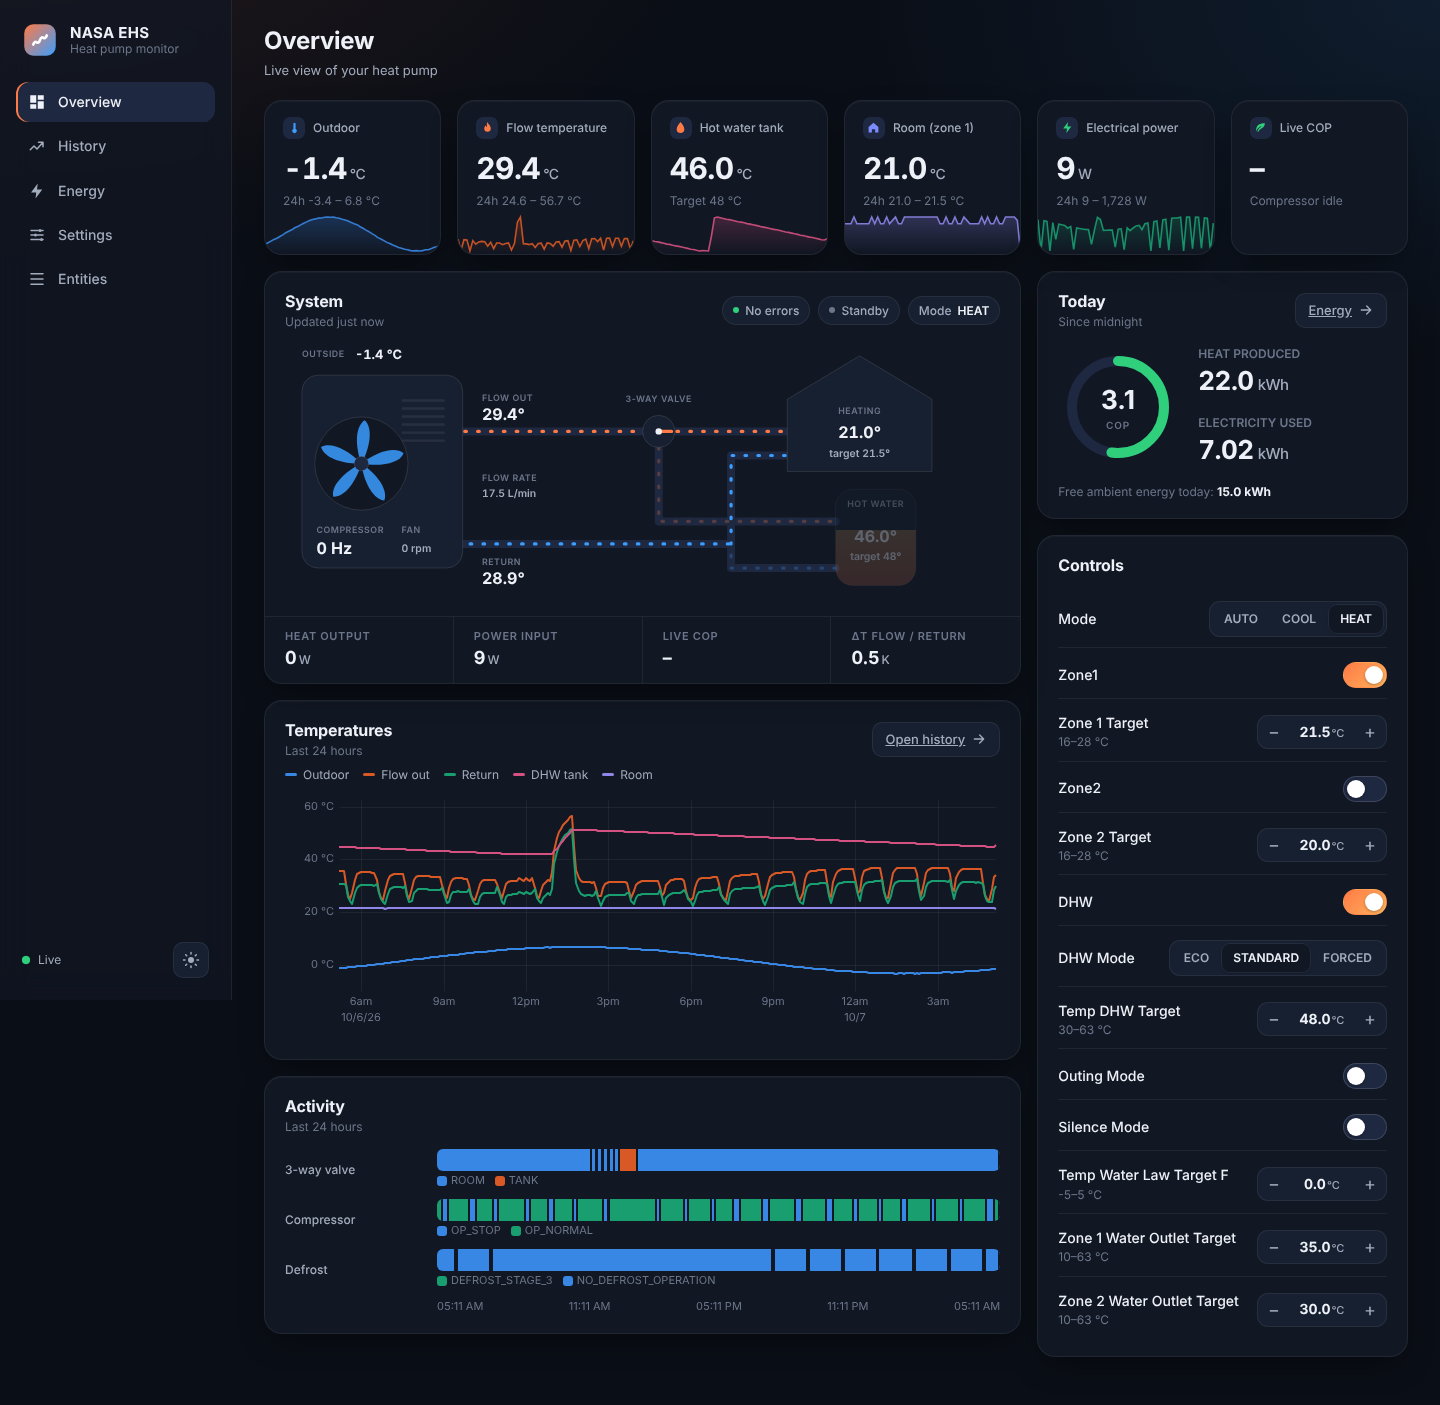
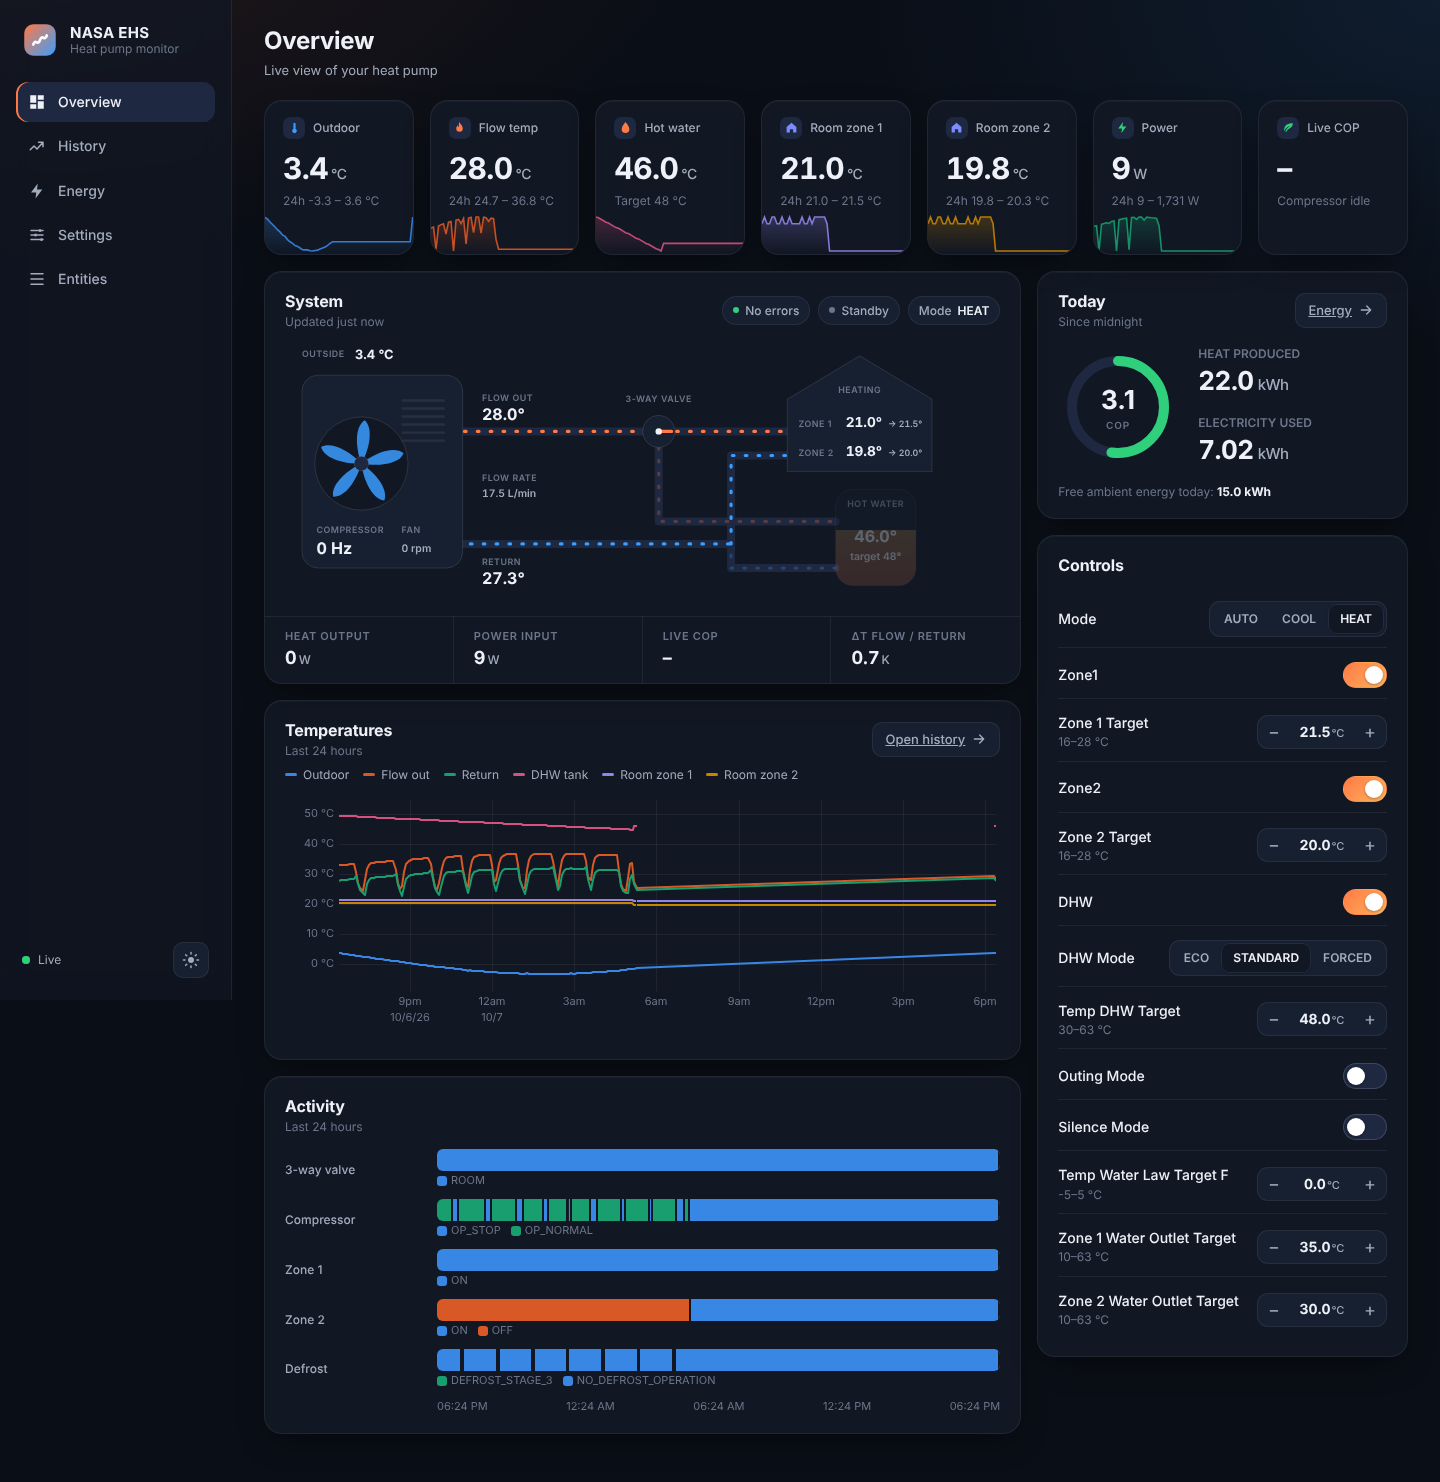
Show zone 2 in the web dashboard
- System schematic: the house now lists zone 1 and zone 2 with room
  temperature and target; a zone that is switched off is dimmed.
- New "Room zone 2" KPI tile, plus zone 2 room temperature in the
  overview and history temperature charts.
- Zone 1 / Zone 2 on/off rows in the activity and operating-state
  timelines.

Claude-Session: https://claude.ai/code/session_01F3TLVsUUiB4MiMTLmAKquL

diff --git a/web/nasa_web/static/js/views/overview.js b/web/nasa_web/static/js/views/overview.js
@@ -16,10 +16,11 @@ const ICONS = {
 
 const KPIS = [
   { key: N.outdoor, label: "Outdoor", icon: "temp", cls: "cool", color: "--s1" },
-  { key: N.waterOut, label: "Flow temperature", icon: "flame", cls: "heat", color: "--s2" },
-  { key: N.tank, label: "Hot water tank", icon: "drop", cls: "heat", color: "--s5" },
-  { key: N.room1, label: "Room (zone 1)", icon: "home", cls: "accent", color: "--s7" },
-  { key: N.power, label: "Electrical power", icon: "bolt", cls: "good", color: "--s3" },
+  { key: N.waterOut, label: "Flow temp", icon: "flame", cls: "heat", color: "--s2" },
+  { key: N.tank, label: "Hot water", icon: "drop", cls: "heat", color: "--s5" },
+  { key: N.room1, label: "Room zone 1", icon: "home", cls: "accent", color: "--s7" },
+  { key: N.room2, label: "Room zone 2", icon: "home", cls: "accent", color: "--s4" },
+  { key: N.power, label: "Power", icon: "bolt", cls: "good", color: "--s3" },
 ];
 
 let root, chart, sparkData = {}, timers = [], raf = 0;
@@ -79,7 +80,8 @@ export default {
         { label: "Flow out", color: "--s2", unit: "°C" },
         { label: "Return", color: "--s3", unit: "°C" },
         { label: "DHW tank", color: "--s5", unit: "°C" },
-        { label: "Room", color: "--s7", unit: "°C" },
+        { label: "Room zone 1", color: "--s7", unit: "°C" },
+        { label: "Room zone 2", color: "--s4", unit: "°C" },
       ],
       unit: "°C",
       height: 250,
@@ -190,11 +192,15 @@ function flowSvg() {
     </g>
 
     <!-- house -->
-    <g class="target" id="f-house" data-entity="${id(N.room1)}" style="cursor:pointer">
+    <g class="target" id="f-house">
       <path d="M630,70 L720,16 L810,70 V160 H630Z" fill="var(--surface-2)" stroke="var(--border-strong)" stroke-linejoin="round"/>
-      <text class="lbl" x="720" y="88" text-anchor="middle">Heating</text>
-      <text class="val" x="720" y="118" text-anchor="middle" id="f-room">–</text>
-      <text class="val-sm" x="720" y="142" text-anchor="middle" id="f-room-t"></text>
+      <text class="lbl" x="720" y="62" text-anchor="middle">Heating</text>
+      ${[1, 2].map((z) => `
+      <g id="f-z${z}" data-entity="${id(z === 1 ? N.room1 : N.room2)}" style="cursor:pointer">
+        <text class="lbl" x="644" y="${z === 1 ? 104 : 140}">Zone ${z}</text>
+        <text class="val" x="748" y="${z === 1 ? 105 : 141}" text-anchor="end" style="font-size:17px" id="f-z${z}-v">–</text>
+        <text class="val-sm" x="798" y="${z === 1 ? 105 : 141}" text-anchor="end" style="font-size:11px" id="f-z${z}-t"></text>
+      </g>`).join("")}
     </g>
 
     <!-- tank -->
@@ -242,9 +248,13 @@ function renderFlow() {
   setText("#f-out", deg(val(N.waterOut)));
   setText("#f-in", deg(val(N.waterIn)));
   setText("#f-flow", `${num(flow, 1)} L/min`);
-  setText("#f-room", deg(val(N.room1)));
-  const z1t = val(N.zone1Target);
-  setText("#f-room-t", z1t == null ? "" : `target ${num(z1t, 1)}°`);
+  for (const [z, room, sw, target] of [[1, N.room1, N.zone1, N.zone1Target], [2, N.room2, N.zone2, N.zone2Target]]) {
+    const on = text(sw) !== "OFF";
+    const t = val(target);
+    setText(`#f-z${z}-v`, deg(val(room)));
+    setText(`#f-z${z}-t`, !on ? "off" : t == null ? "" : `→ ${num(t, 1)}°`);
+    svg.querySelector(`#f-z${z}`).style.opacity = !ent(room) ? "0" : on ? "1" : "0.45";
+  }
   const tank = val(N.tank), tankT = val(N.dhwTarget);
   setText("#f-tank-v", deg(tank));
   setText("#f-tank-t", tankT == null ? "" : `target ${num(tankT, 0)}°`);
@@ -359,8 +369,8 @@ function renderControls() {
 /* ----------------------------------------------------------------- history */
 
 async function loadHistory() {
-  const keys = [N.outdoor, N.waterOut, N.waterIn, N.tank, N.room1];
-  const states = [[N.valve, "3-way valve"], [N.opMode, "Compressor"], [N.defrost, "Defrost"]];
+  const keys = [N.outdoor, N.waterOut, N.waterIn, N.tank, N.room1, N.room2];
+  const states = [[N.valve, "3-way valve"], [N.opMode, "Compressor"], [N.zone1, "Zone 1"], [N.zone2, "Zone 2"], [N.defrost, "Defrost"]];
   const ids = [...new Set([...keys, N.power, ...states.map((x) => x[0])].map((k) => ent(k)?.id).filter(Boolean))];
   if (!ids.length) return;
   const end = Date.now() / 1000, start = end - 86400;
@@ -371,7 +381,7 @@ async function loadHistory() {
       const s = res.series[ent(k)?.id];
       return s ? [s.t, s.v] : [[], []];
     }));
-    const rows = states.filter(([n]) => res.series[ent(n)?.id]).map(([n, label]) => ({ label, data: res.series[ent(n).id], order: ent(n).options }));
+    const rows = states.filter(([n]) => res.series[ent(n)?.id]).map(([n, label]) => ({ label, data: res.series[ent(n).id], order: ent(n).kind === "binary" ? ["ON", "OFF"] : ent(n).options }));
     timeline(root.querySelector("#ov-activity"), rows, start, end);
     sparkData = {};
     for (const k of KPIS) {

diff --git a/web/nasa_web/static/js/views/history.js b/web/nasa_web/static/js/views/history.js
@@ -7,13 +7,13 @@ const RANGES = [["1h", 3600], ["6h", 6 * 3600], ["24h", 86400], ["7d", 7 * 86400
 
 const PANELS = [
   { id: "temps", title: "Temperatures", unit: "°C", span: 12, height: 300,
-    series: [[N.outdoor, "Outdoor"], [N.waterOut, "Flow out"], [N.waterIn, "Return"], [N.tank, "DHW tank"], [N.room1, "Room"], [N.lawTarget, "Water law target"]] },
+    series: [[N.outdoor, "Outdoor"], [N.waterOut, "Flow out"], [N.waterIn, "Return"], [N.tank, "DHW tank"], [N.room1, "Room zone 1"], [N.room2, "Room zone 2"], [N.lawTarget, "Water law target"]] },
   { id: "power", title: "Electrical power", unit: "W", span: 12, height: 220, series: [[N.power, "Power"]] },
   { id: "freq", title: "Compressor frequency", unit: "Hz", span: 6, height: 200, series: [[N.freq, "Frequency"]] },
   { id: "flow", title: "Water flow", unit: "L/min", span: 6, height: 200, series: [[N.flow, "Flow"]] },
 ];
 
-const STATES = [[N.valve, "3-way valve"], [N.opMode, "Operation"], [N.dhw, "DHW"], [N.zone1, "Zone 1"], [N.defrost, "Defrost"], [N.backup, "Backup heater"]];
+const STATES = [[N.valve, "3-way valve"], [N.opMode, "Operation"], [N.dhw, "DHW"], [N.zone1, "Zone 1"], [N.zone2, "Zone 2"], [N.defrost, "Defrost"], [N.backup, "Backup heater"]];
 
 let root, charts = [], span = 86400, end = null, timer = null, custom = [];
 try { custom = JSON.parse(localStorage.getItem("history.custom") || "[]"); } catch (e) { custom = []; }

diff --git a/web/nasa_web/static/css/app.css b/web/nasa_web/static/css/app.css
@@ -203,7 +203,7 @@ svg { display: block; }
 .span-4 { grid-column: span 4; }
 
 /* ---------------------------------------------------------------- KPI tiles */
-.kpis { display: grid; grid-template-columns: repeat(auto-fit, minmax(170px, 1fr)); gap: 16px; }
+.kpis { display: grid; grid-template-columns: repeat(auto-fit, minmax(140px, 1fr)); gap: 16px; }
 .kpi { position: relative; overflow: hidden; padding: 16px 18px 44px; cursor: pointer; transition: border-color .15s, transform .15s; }
 .kpi:hover { border-color: var(--border-strong); transform: translateY(-1px); }
 .kpi .label { display: flex; align-items: center; gap: 8px; font-size: 12px; color: var(--text-2); font-weight: 550; }
